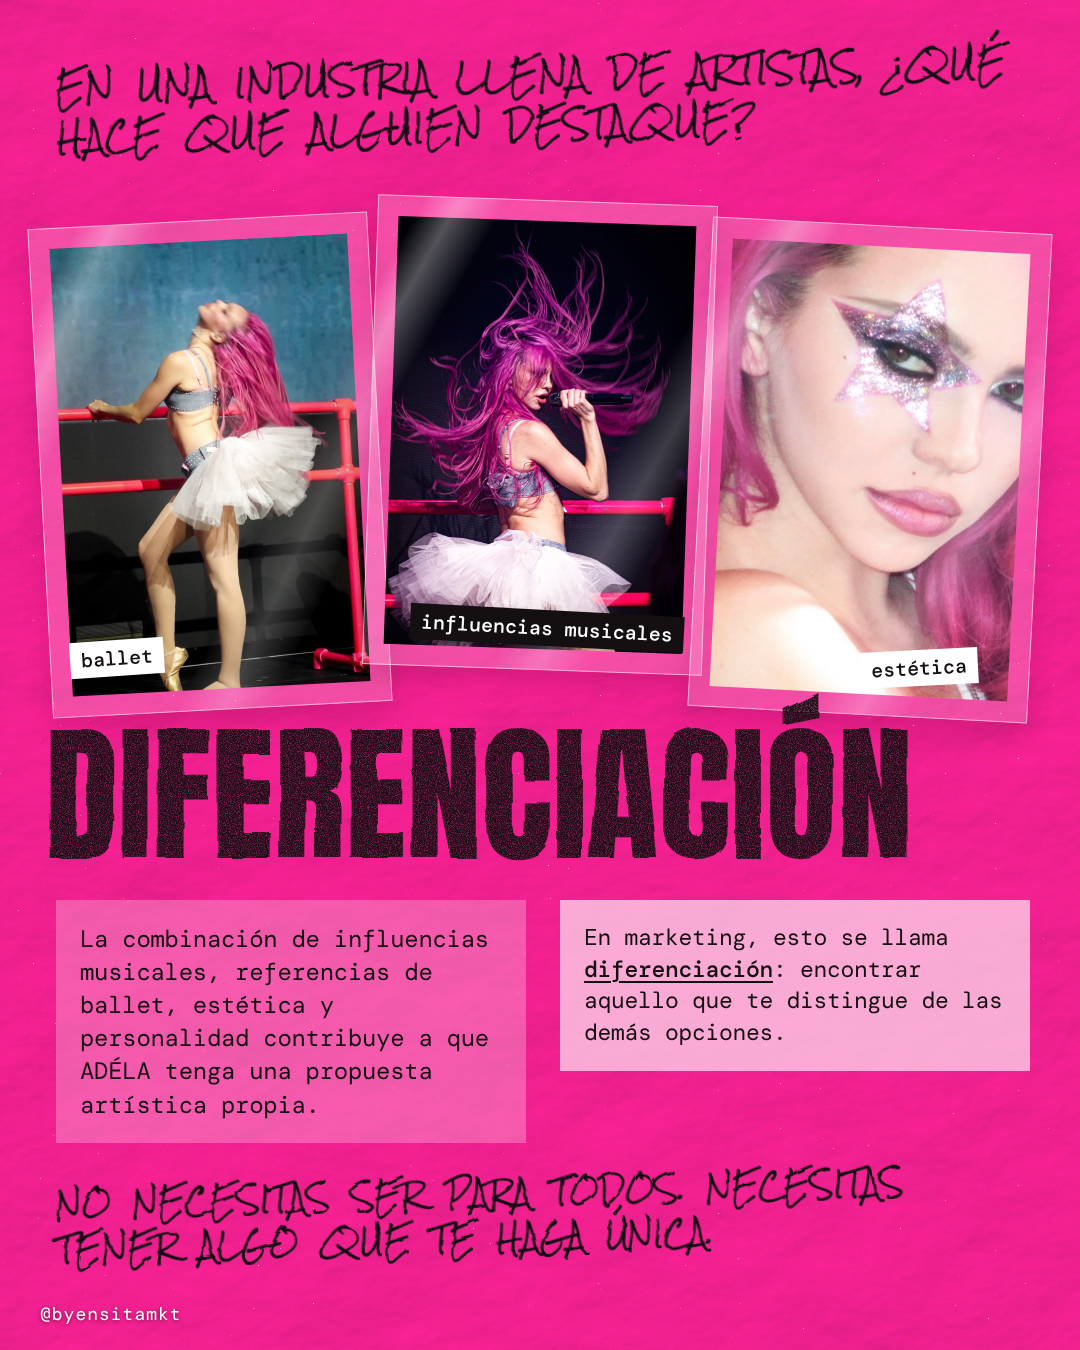
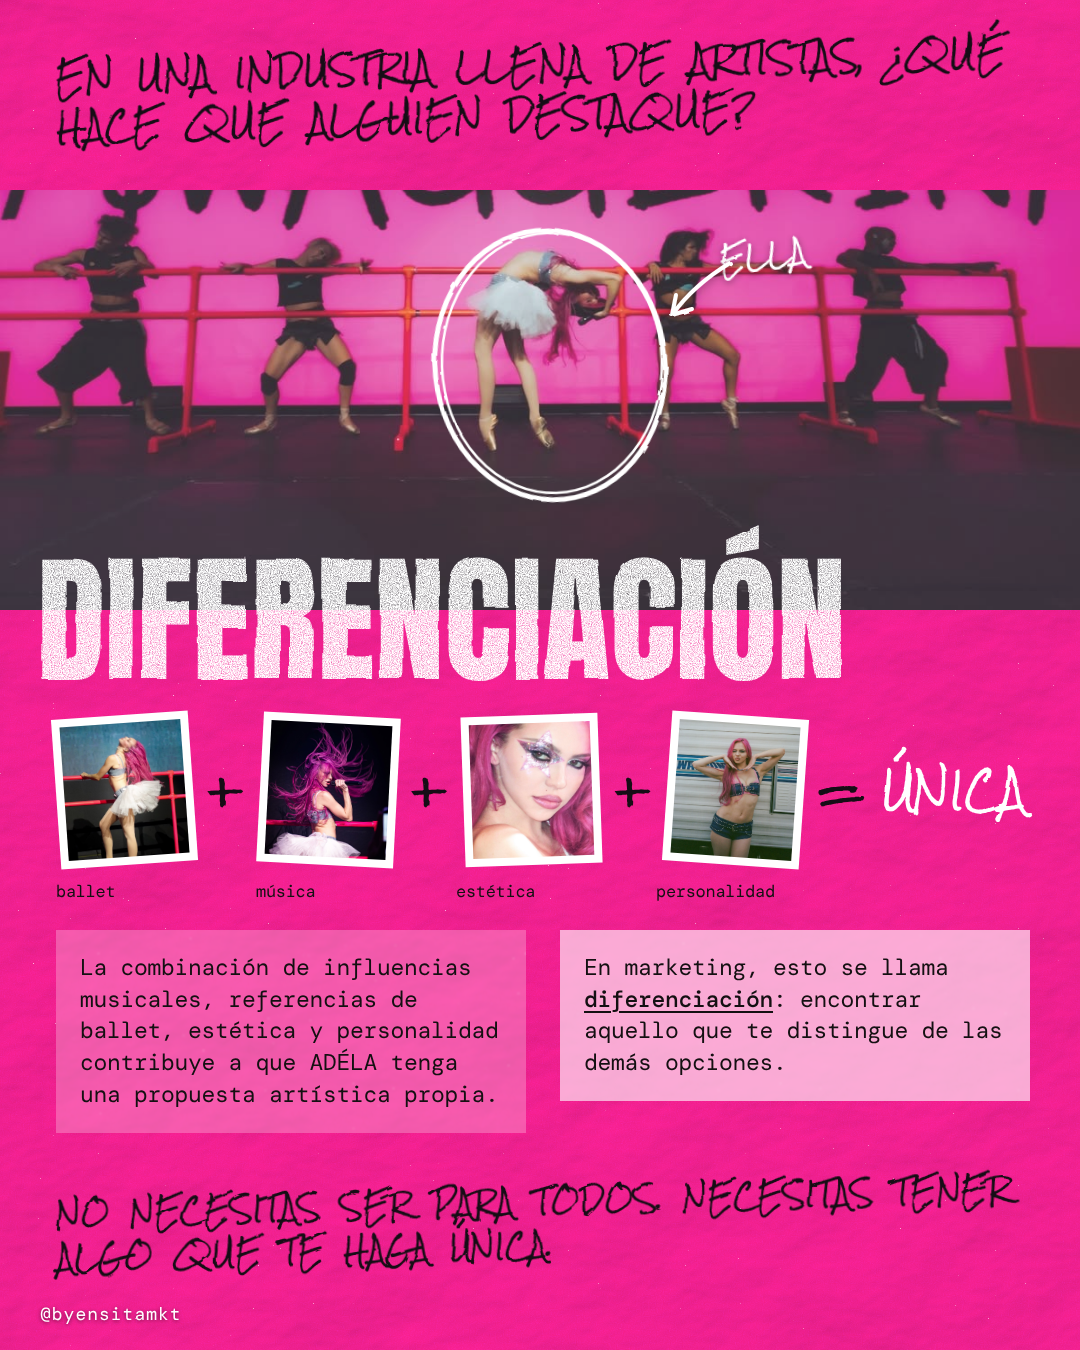
Carrusel ADÉLA v3: nueva composición para slide de diferenciación
Claude-Session: https://claude.ai/code/session_01EttaFwFcyCceR8tBVwHGLn

diff --git a/carrusel-prima/adela-v3.html b/carrusel-prima/adela-v3.html
@@ -154,23 +154,37 @@
 <!-- ============ 05 DIFERENCIACIÓN ============ -->
 <section class="slide" id="s5">
   <div class="tex" data-seed="31"></div>
-  <div class="hand abs" style="left:56px;top:50px;width:980px;font-size:31px;transform:rotate(-1.5deg)">En una industria llena de artistas, ¿qué hace que alguien destaque?</div>
-  <div class="sleeve" style="left:40px;top:220px;width:340px;height:490px;transform:rotate(-3deg)"><img src="img/ballet-barra.jpg" style="object-position:45% 40%"></div>
-  <div class="sleeve" style="left:370px;top:200px;width:340px;height:470px;transform:rotate(2deg)"><img src="img/mic.jpg" style="object-position:40% 30%"></div>
-  <div class="sleeve" style="left:700px;top:225px;width:340px;height:490px;transform:rotate(3deg)"><img src="img/estrella.jpg" style="object-position:55% 35%"></div>
-  <div class="tag" style="left:70px;top:640px;transform:rotate(-4deg)">ballet</div>
-  <div class="tag dark" style="left:410px;top:610px;transform:rotate(3deg)">influencias musicales</div>
-  <div class="tag" style="left:860px;top:650px;transform:rotate(-3deg)">estética</div>
-  <div class="big ink" style="left:44px;top:730px;font-size:150px">DIFERENCIACIÓN</div>
+  <div class="washed" style="left:0;top:190px;width:1080px;height:420px"><img src="img/swaggerina.jpg" style="object-position:50% 80%;filter:saturate(.95) contrast(1)"></div>
+  <div class="hand abs" style="left:56px;top:40px;width:960px;font-size:31px;transform:rotate(-1.5deg)">En una industria llena de artistas, ¿qué hace que alguien destaque?</div>
+  <svg class="deco" style="left:410px;top:215px" width="280" height="300"><ellipse cx="140" cy="150" rx="115" ry="135" fill="none" stroke="#fff" stroke-width="5" filter="url(#rough)" transform="rotate(-6 140 150)"/><ellipse cx="142" cy="148" rx="110" ry="130" fill="none" stroke="#fff" stroke-width="2.5" filter="url(#rough)" transform="rotate(-2 140 150)"/></svg>
+  <div class="anno" style="left:720px;top:225px;transform:rotate(-6deg);font-size:26px">ella</div>
+  <svg class="arrow" style="left:660px;top:255px" width="80" height="70"><path d="M70 8 C50 20 30 35 12 60 M12 60 L16 40 M12 60 L32 54" stroke="#fff" stroke-width="4" fill="none" stroke-linecap="round"/></svg>
 
-  <div class="lyrics" style="left:56px;top:900px;width:470px">
-    <div class="mono" style="font-size:24px">La combinación de influencias musicales, referencias de ballet, estética y personalidad contribuye a que ADÉLA tenga una propuesta artística propia.</div>
+  <div class="big" style="left:36px;top:560px;font-size:140px;color:#fff">DIFERENCIACIÓN</div>
+
+  <!-- fórmula -->
+  <div class="abs" style="left:56px;top:715px;width:970px;display:flex;align-items:center;gap:14px;flex-wrap:nowrap">
+    <div class="cut" style="position:relative;width:150px;height:150px;padding:8px;transform:rotate(-4deg)"><img src="img/ballet-barra.jpg" style="object-position:45% 30%"></div>
+    <div class="hand" style="font-size:44px">+</div>
+    <div class="cut" style="position:relative;width:150px;height:150px;padding:8px;transform:rotate(3deg)"><img src="img/mic.jpg" style="object-position:45% 25%"></div>
+    <div class="hand" style="font-size:44px">+</div>
+    <div class="cut" style="position:relative;width:150px;height:150px;padding:8px;transform:rotate(-2deg)"><img src="img/estrella.jpg" style="object-position:55% 35%"></div>
+    <div class="hand" style="font-size:44px">+</div>
+    <div class="cut" style="position:relative;width:150px;height:150px;padding:8px;transform:rotate(4deg)"><img src="img/guino.jpg" style="object-position:50% 15%"></div>
+    <div class="hand" style="font-size:44px">=</div>
+    <div class="hand" style="font-size:40px;color:#fff">única</div>
   </div>
-  <div class="lyrics solid" style="left:560px;top:900px;width:470px">
+  <div class="mono abs" style="left:56px;top:880px;width:970px;display:flex;gap:0;font-size:17px">
+    <span style="width:200px">ballet</span><span style="width:200px">música</span><span style="width:200px">estética</span><span>personalidad</span>
+  </div>
+
+  <div class="lyrics" style="left:56px;top:930px;width:470px">
+    <div class="mono" style="font-size:23px">La combinación de influencias musicales, referencias de ballet, estética y personalidad contribuye a que ADÉLA tenga una propuesta artística propia.</div>
+  </div>
+  <div class="lyrics solid" style="left:560px;top:930px;width:470px">
     <div class="mono" style="font-size:23px">En marketing, esto se llama <span class="def-term">diferenciación</span>: encontrar aquello que te distingue de las demás opciones.</div>
   </div>
-  <div class="hand abs" style="left:56px;top:1170px;width:980px;font-size:28px;transform:rotate(-1.5deg)">No necesitas ser para todos. Necesitas tener algo que te haga única.</div>
-  <div class="corner" style="right:40px;top:24px;color:#fff"></div>
+  <div class="hand abs" style="left:56px;top:1180px;width:980px;font-size:27px;transform:rotate(-1.5deg)">No necesitas ser para todos. Necesitas tener algo que te haga única.</div>
 </section>
 
 <!-- ============ 06 UGC ============ -->
